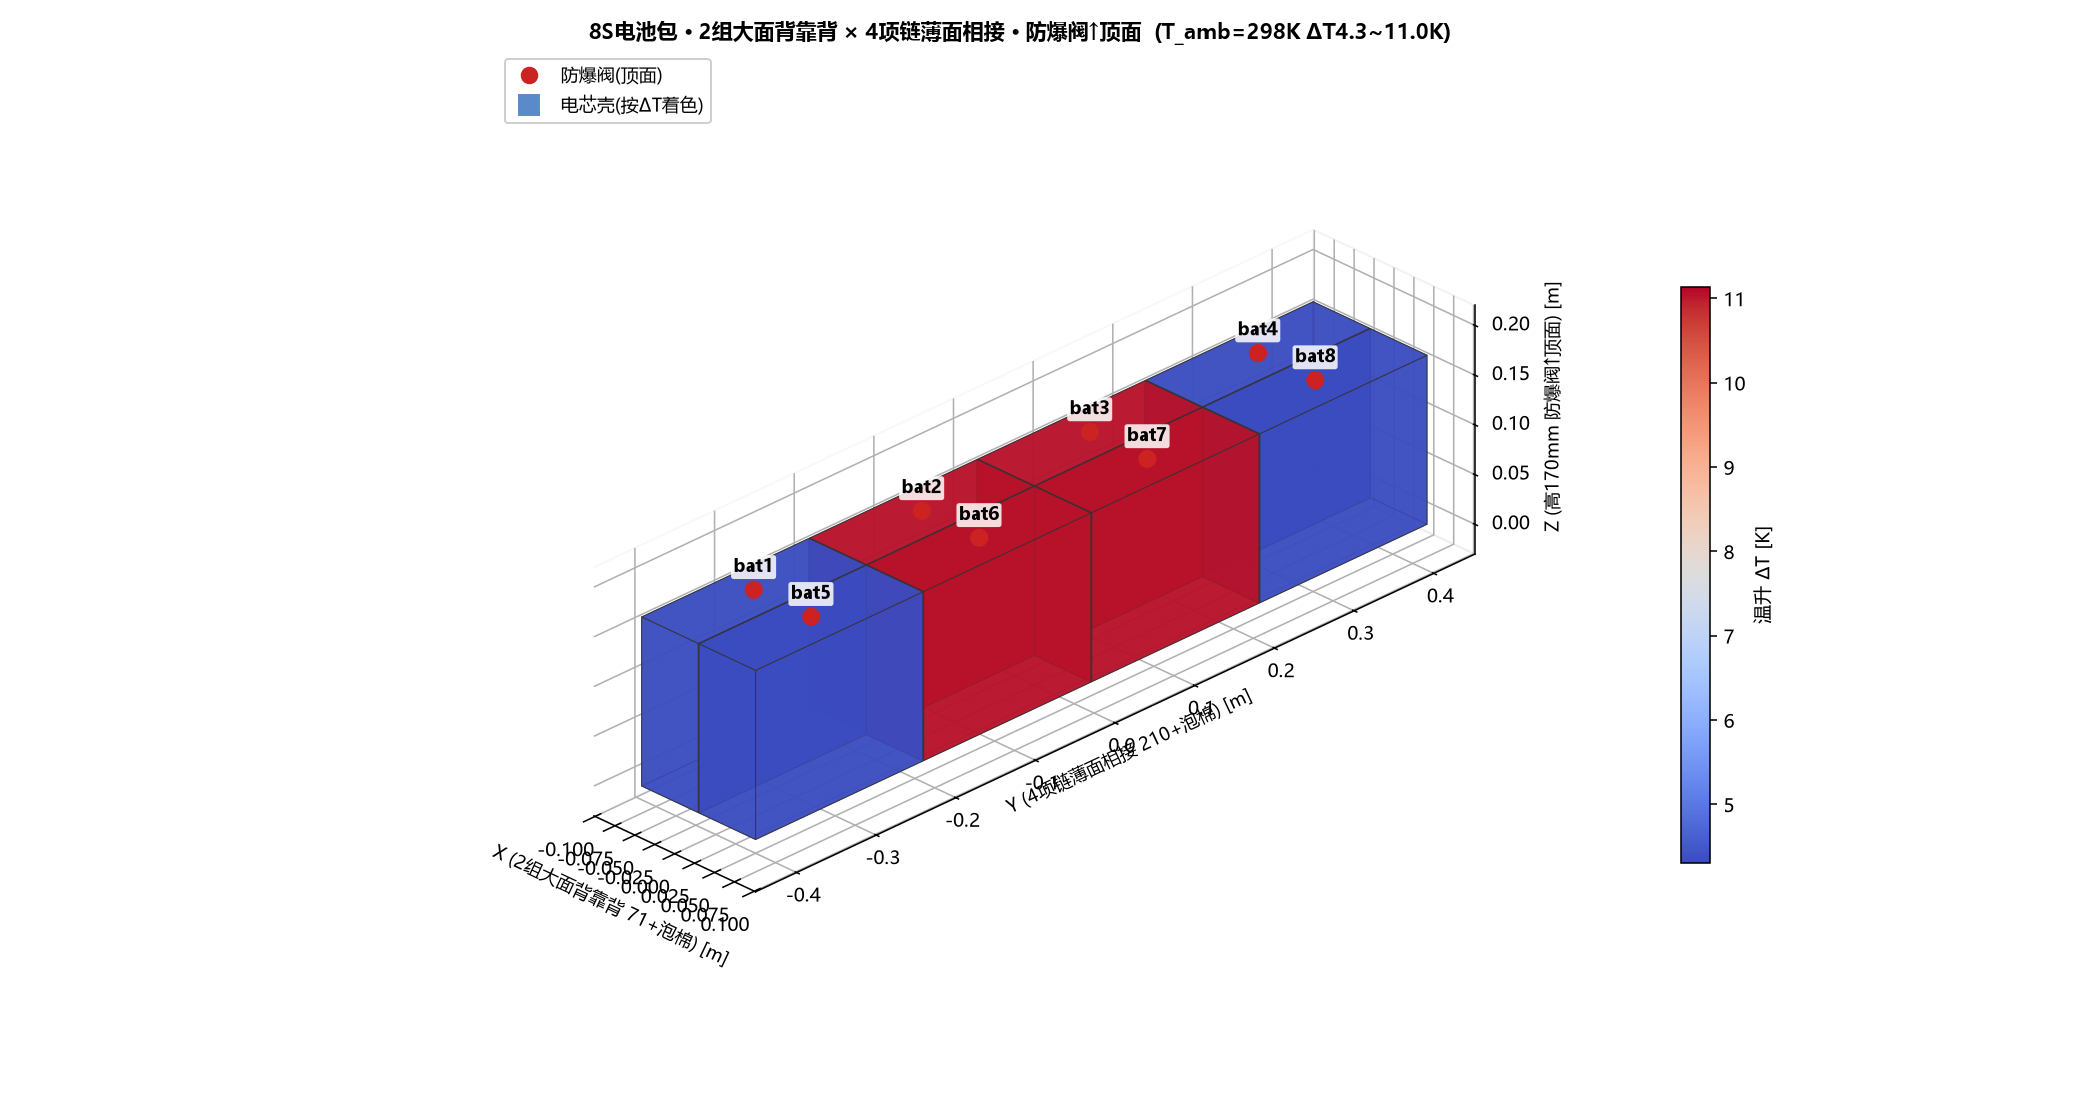
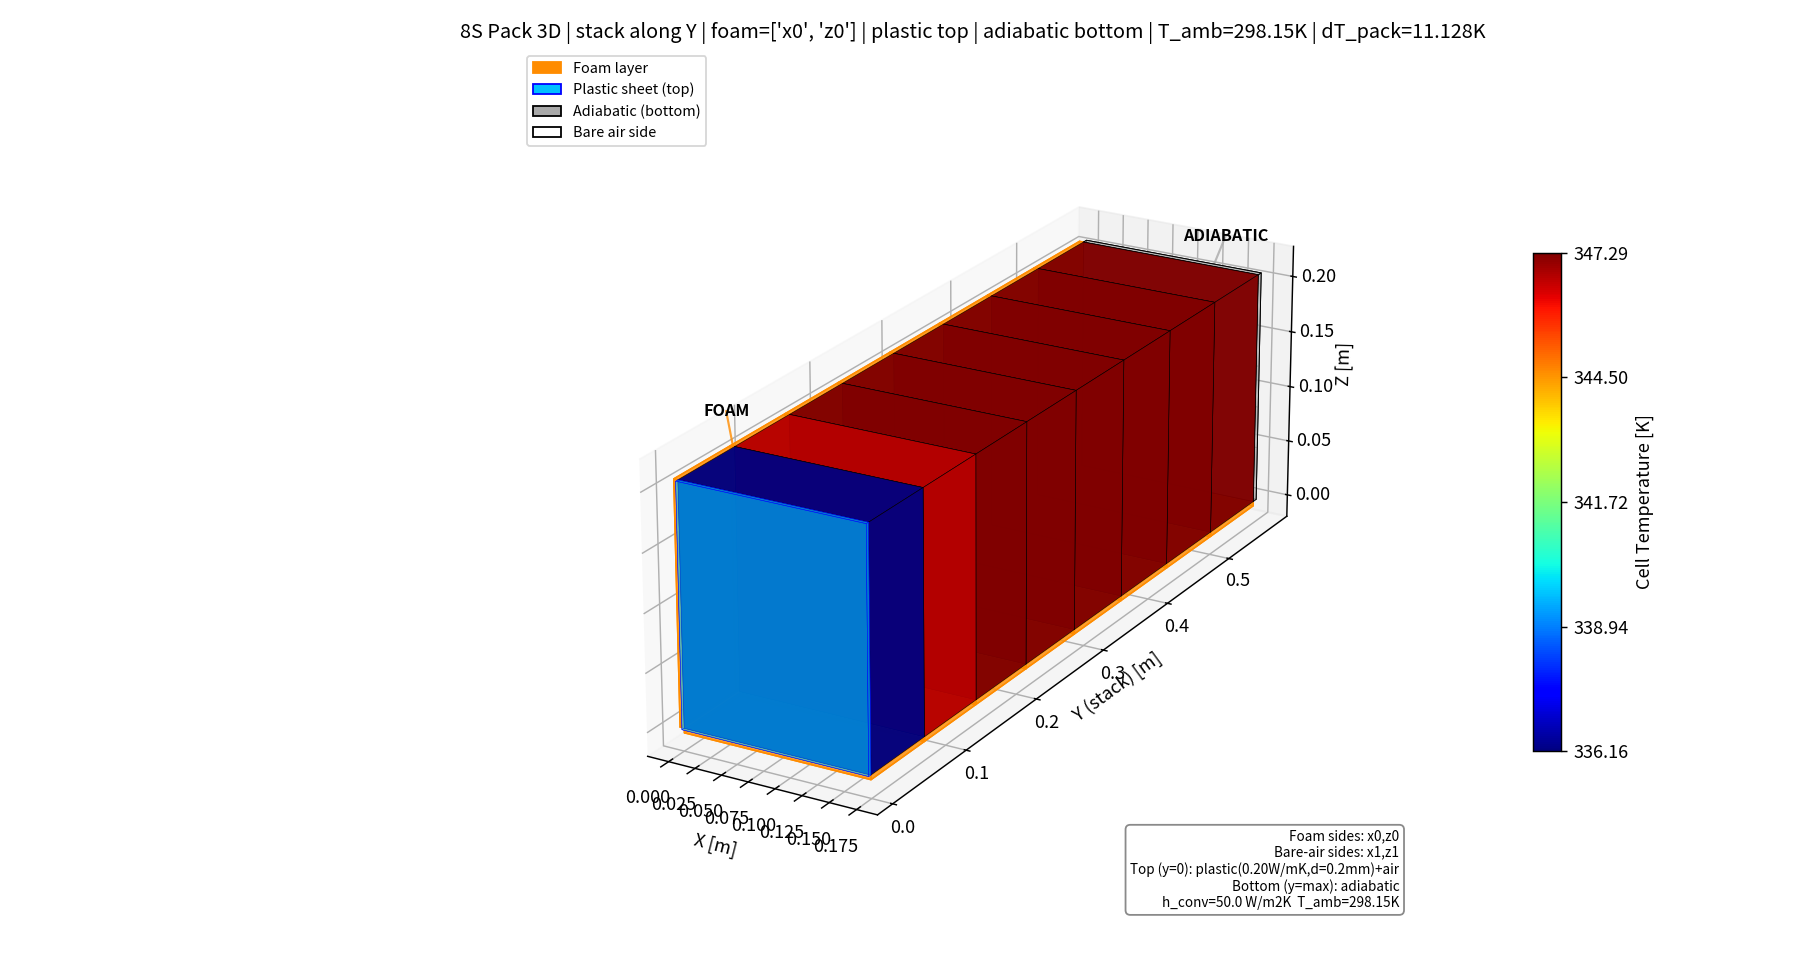
feat: add true 3D pack rendering plot_3d_pack to StackThermal3D
- 8 solid cell blocks along Y, coloured by bulk temperature

- exaggerated foam/plastic/adiabatic layers for clear visualisation

- 2D BC summary box + 3D leader-line labels (FOAM/ADIABATIC)

- demo writes ecm_pack_8s_3dpack.png and aligns thermal.T with last recorded snapshot

- all labels ASCII-only to avoid encoding issues

diff --git a/ecm_pack/thermal3d_stack.py b/ecm_pack/thermal3d_stack.py
@@ -364,3 +364,280 @@ class StackThermal3D:
         if save_path:
             fig.savefig(save_path, dpi=dpi)
         return fig
+
+    def plot_3d_pack(self, ax=None, figsize=(14, 7.5), cmap="jet",
+                     foam_color="#ff8c00", plastic_color="#00bfff",
+                     adiabatic_color="#a9a9a9",
+                     alpha_foam=0.55, alpha_plastic=0.40,
+                     alpha_adiabatic=0.55,
+                     title=None, save_path=None, dpi=130):
+        """Draw a true 3D rendering of the whole 1xN stack.
+
+        Shows each cell as a solid block coloured by bulk temperature, foam pads
+        on the faces listed in ``foam_faces``, a plastic sheet on the top face
+        (y=0), and an adiabatic marker on the bottom face (y=n*Ly).
+        All labels are ASCII-only to avoid encoding issues.
+        """
+        from mpl_toolkits.mplot3d.art3d import Poly3DCollection, Line3DCollection
+        import matplotlib.pyplot as plt
+        import matplotlib.patches as mpatches
+
+        if ax is None:
+            fig = plt.figure(figsize=figsize)
+            ax = fig.add_subplot(111, projection="3d")
+        else:
+            fig = ax.figure
+
+        Lx, Ly, Lz = self.Lx, self.Ly, self.Lz
+        n = self.n_cells
+
+        # temperature -> colour mapping (use a copy to avoid surprise updates)
+        T = np.asarray(self.T, dtype=float).copy()
+        Tmin, Tmax = float(T.min()), float(T.max())
+        norm = plt.Normalize(Tmin, Tmax)
+        sm = plt.cm.ScalarMappable(norm=norm, cmap=cmap)
+        sm.set_array([])
+
+        foam_x0 = "x0" in self.foam_faces
+        foam_x1 = "x1" in self.foam_faces
+        foam_z0 = "z0" in self.foam_faces
+        foam_z1 = "z1" in self.foam_faces
+
+        # exaggerate thin layers so they are visible in the overview
+        vis_d_foam = max(self.foam_thickness, 0.004)
+        vis_d_plastic = max(self.d_top, 0.003) if self.k_top > 0 else 0.0
+        vis_d_adiab = 0.005
+
+        def add_face(verts, color, alpha=0.95, edgecolor="k", lw=0.3):
+            ax.add_collection3d(
+                Poly3DCollection([verts], facecolors=color,
+                                 edgecolors=edgecolor,
+                                 linewidths=lw, alpha=alpha))
+
+        # ---- cell blocks ----
+        for c in range(n):
+            y0 = c * Ly
+            y1 = y0 + Ly
+            x0, x1 = 0.0, Lx
+            z0, z1 = 0.0, Lz
+            color = sm.to_rgba(T[c])
+
+            v = [
+                [x0, y0, z0], [x1, y0, z0], [x1, y1, z0], [x0, y1, z0],
+                [x0, y0, z1], [x1, y0, z1], [x1, y1, z1], [x0, y1, z1],
+            ]
+            faces = [
+                [v[0], v[1], v[2], v[3]],  # z = z0
+                [v[4], v[5], v[6], v[7]],  # z = z1
+                [v[0], v[1], v[5], v[4]],  # y = y0  (top)
+                [v[2], v[3], v[7], v[6]],  # y = y1  (bottom)
+                [v[0], v[3], v[7], v[4]],  # x = x0
+                [v[1], v[2], v[6], v[5]],  # x = x1
+            ]
+            for f in faces:
+                add_face(f, color)
+            # cell label on top face (y=0), black text for readability
+            ax.text(Lx * 0.5, y0 + 0.002, Lz * 0.5,
+                    f"bat{c + 1}", color="black", fontsize=8,
+                    ha="center", va="center", fontweight="bold")
+
+        # ---- foam layers on requested thin sides ----
+        for c in range(n):
+            y0 = c * Ly
+            y1 = y0 + Ly
+
+            if foam_x0:
+                ff = [
+                    [-vis_d_foam, y0, 0.0], [0.0, y0, 0.0],
+                    [0.0, y1, 0.0], [-vis_d_foam, y1, 0.0],
+                    [-vis_d_foam, y0, Lz], [0.0, y0, Lz],
+                    [0.0, y1, Lz], [-vis_d_foam, y1, Lz],
+                ]
+                for face in (
+                    [ff[0], ff[3], ff[7], ff[4]],
+                    [ff[1], ff[2], ff[6], ff[5]],
+                    [ff[0], ff[1], ff[2], ff[3]],
+                    [ff[4], ff[5], ff[6], ff[7]],
+                    [ff[0], ff[1], ff[5], ff[4]],
+                    [ff[3], ff[2], ff[6], ff[7]],
+                ):
+                    add_face(face, foam_color, alpha_foam,
+                             "darkorange", 0.8)
+            if foam_x1:
+                ff = [
+                    [Lx, y0, 0.0], [Lx + vis_d_foam, y0, 0.0],
+                    [Lx + vis_d_foam, y1, 0.0], [Lx, y1, 0.0],
+                    [Lx, y0, Lz], [Lx + vis_d_foam, y0, Lz],
+                    [Lx + vis_d_foam, y1, Lz], [Lx, y1, Lz],
+                ]
+                for face in (
+                    [ff[0], ff[1], ff[5], ff[4]],
+                    [ff[2], ff[3], ff[7], ff[6]],
+                    [ff[0], ff[1], ff[2], ff[3]],
+                    [ff[4], ff[5], ff[6], ff[7]],
+                    [ff[1], ff[2], ff[6], ff[5]],
+                    [ff[0], ff[3], ff[7], ff[4]],
+                ):
+                    add_face(face, foam_color, alpha_foam,
+                             "darkorange", 0.8)
+            if foam_z0:
+                ff = [
+                    [0.0, y0, -vis_d_foam], [Lx, y0, -vis_d_foam],
+                    [Lx, y1, -vis_d_foam], [0.0, y1, -vis_d_foam],
+                    [0.0, y0, 0.0], [Lx, y0, 0.0],
+                    [Lx, y1, 0.0], [0.0, y1, 0.0],
+                ]
+                for face in (
+                    [ff[0], ff[1], ff[2], ff[3]],
+                    [ff[4], ff[5], ff[6], ff[7]],
+                    [ff[0], ff[1], ff[5], ff[4]],
+                    [ff[2], ff[3], ff[7], ff[6]],
+                    [ff[1], ff[2], ff[6], ff[5]],
+                    [ff[0], ff[3], ff[7], ff[4]],
+                ):
+                    add_face(face, foam_color, alpha_foam,
+                             "darkorange", 0.8)
+            if foam_z1:
+                ff = [
+                    [0.0, y0, Lz], [Lx, y0, Lz],
+                    [Lx, y1, Lz], [0.0, y1, Lz],
+                    [0.0, y0, Lz + vis_d_foam], [Lx, y0, Lz + vis_d_foam],
+                    [Lx, y1, Lz + vis_d_foam], [0.0, y1, Lz + vis_d_foam],
+                ]
+                for face in (
+                    [ff[4], ff[5], ff[6], ff[7]],
+                    [ff[0], ff[1], ff[2], ff[3]],
+                    [ff[1], ff[2], ff[6], ff[5]],
+                    [ff[0], ff[3], ff[7], ff[4]],
+                    [ff[0], ff[1], ff[5], ff[4]],
+                    [ff[3], ff[2], ff[6], ff[7]],
+                ):
+                    add_face(face, foam_color, alpha_foam,
+                             "darkorange", 0.8)
+
+        # ---- top plastic sheet (y = 0, covers all cells) ----
+        if self.k_top > 0.0 and self.d_top > 0.0:
+            pp = [
+                [0.0, -vis_d_plastic, 0.0], [Lx, -vis_d_plastic, 0.0],
+                [Lx, 0.0, 0.0], [0.0, 0.0, 0.0],
+                [0.0, -vis_d_plastic, Lz], [Lx, -vis_d_plastic, Lz],
+                [Lx, 0.0, Lz], [0.0, 0.0, Lz],
+            ]
+            for face in (
+                [pp[0], pp[1], pp[2], pp[3]],
+                [pp[4], pp[5], pp[6], pp[7]],
+                [pp[0], pp[1], pp[5], pp[4]],
+                [pp[2], pp[3], pp[7], pp[6]],
+                [pp[0], pp[3], pp[7], pp[4]],
+                [pp[1], pp[2], pp[6], pp[5]],
+            ):
+                add_face(face, plastic_color, alpha_plastic, "blue", 0.25)
+
+        # ---- adiabatic bottom marker (y = n*Ly, visible slab) ----
+        y_bot = n * Ly
+        bot = [
+            [0.0, y_bot, 0.0], [Lx, y_bot, 0.0],
+            [Lx, y_bot + vis_d_adiab, 0.0], [0.0, y_bot + vis_d_adiab, 0.0],
+            [0.0, y_bot, Lz], [Lx, y_bot, Lz],
+            [Lx, y_bot + vis_d_adiab, Lz], [0.0, y_bot + vis_d_adiab, Lz],
+        ]
+        for face in (
+            [bot[0], bot[1], bot[5], bot[4]],
+            [bot[2], bot[3], bot[7], bot[6]],
+            [bot[0], bot[3], bot[7], bot[4]],
+            [bot[1], bot[2], bot[6], bot[5]],
+            [bot[4], bot[5], bot[6], bot[7]],
+        ):
+            add_face(face, adiabatic_color, alpha_adiabatic, "black", 0.5)
+        # diagonal hatching lines on adiabatic bottom face
+        hatch_lines = []
+        for t in np.linspace(0.05, 0.95, 6):
+            hatch_lines.append([[t * Lx, y_bot + vis_d_adiab, 0.0],
+                                [t * Lx, y_bot + vis_d_adiab, Lz]])
+            hatch_lines.append([[0.0, y_bot + vis_d_adiab, t * Lz],
+                                [Lx, y_bot + vis_d_adiab, t * Lz]])
+        ax.add_collection3d(
+            Line3DCollection(hatch_lines, colors="black", linewidths=0.6,
+                             linestyles="--", alpha=0.6))
+
+        # ---- 3D leader-line labels (placed in the foreground for the view) ----
+        label_kw = dict(color="black", fontsize=9, fontweight="bold",
+                        ha="center", va="center")
+
+        def label_with_line(text, pos, anchor, color="black"):
+            ax.text(*pos, text, **label_kw)
+            ax.plot([anchor[0], pos[0]], [anchor[1], pos[1]],
+                    [anchor[2], pos[2]], color=color, lw=1.2, alpha=0.8)
+
+        # Keep only the labels that sit in the foreground for the chosen view;
+        # the 2D text box already lists every boundary condition explicitly.
+        if foam_x0:
+            label_with_line(
+                "FOAM", [-0.028, 0.10, 0.22],
+                [-vis_d_foam, 0.10, Lz * 0.5], foam_color)
+        if self.k_top > 0.0 and self.d_top > 0.0:
+            label_with_line(
+                "PLASTIC", [Lx + 0.025, -0.030, 0.20],
+                [Lx * 0.5, -vis_d_plastic, Lz * 0.5], plastic_color)
+        label_with_line(
+            "ADIABATIC", [0.12, y_bot + 0.038, 0.22],
+            [Lx * 0.5, y_bot + vis_d_adiab, Lz * 0.5], adiabatic_color)
+
+        # ---- axes, limits, view ----
+        pad = max(vis_d_foam, vis_d_plastic, 0.015)
+        ax.set_xlim(-pad - 0.005, Lx + pad + 0.005)
+        ax.set_ylim(-pad - 0.005, y_bot + vis_d_adiab + pad + 0.005)
+        ax.set_zlim(-pad - 0.005, Lz + pad + 0.005)
+        ax.set_xlabel("X [m]")
+        ax.set_ylabel("Y (stack) [m]")
+        ax.set_zlabel("Z [m]")
+        ax.set_box_aspect([Lx, y_bot, Lz])
+        ax.view_init(elev=22, azim=-60)
+
+        # ---- colour bar ----
+        cbar = fig.colorbar(sm, ax=ax, shrink=0.55, aspect=18, pad=0.06)
+        cbar.set_label("Cell Temperature [K]")
+        cbar.set_ticks(np.linspace(Tmin, Tmax, 5))
+
+        # ---- legend ----
+        handles = [
+            mpatches.Patch(facecolor=foam_color, edgecolor="darkorange",
+                           label="Foam layer"),
+            mpatches.Patch(facecolor=plastic_color, edgecolor="blue",
+                           label="Plastic sheet (top)"),
+            mpatches.Patch(facecolor=adiabatic_color, edgecolor="black",
+                           label="Adiabatic (bottom)"),
+            mpatches.Patch(facecolor="white", edgecolor="k",
+                           label="Bare air side"),
+        ]
+        ax.legend(handles=handles, loc="upper left", fontsize=8)
+
+        # ---- 2D boundary-condition summary (always readable) ----
+        foam_str = ",".join(sorted(self.foam_faces)) if self.foam_faces else "none"
+        air_faces = sorted({"x0", "x1", "z0", "z1"} - set(self.foam_faces))
+        air_str = ",".join(air_faces) if air_faces else "none"
+        bc_text = (
+            f"Foam sides: {foam_str}\n"
+            f"Bare-air sides: {air_str}\n"
+            f"Top (y=0): plastic({self.k_top:.2f}W/mK,d={self.d_top*1e3:.1f}mm)+air\n"
+            f"Bottom (y=max): adiabatic\n"
+            f"h_conv={self.h_side:.1f} W/m2K  T_amb={self.T_amb:.2f}K"
+        )
+        ax.text2D(0.97, 0.05, bc_text, transform=ax.transAxes,
+                  fontsize=7.5, verticalalignment="bottom",
+                  horizontalalignment="right",
+                  bbox=dict(boxstyle="round,pad=0.35", facecolor="white",
+                            edgecolor="gray", alpha=0.92))
+
+        if title is None:
+            title = (
+                f"8S Pack 3D | stack along Y | foam={sorted(self.foam_faces)} | "
+                f"plastic top | adiabatic bottom | T_amb={self.T_amb:.2f}K | "
+                f"dT_pack={Tmax - Tmin:.3f}K"
+            )
+        ax.set_title(title, fontsize=11)
+
+        fig.tight_layout()
+        if save_path:
+            fig.savefig(save_path, dpi=dpi)
+        return fig, ax

diff --git a/ecm_pack/examples/demo_8s_foam_thermal.py b/ecm_pack/examples/demo_8s_foam_thermal.py
@@ -118,6 +118,9 @@ def main():
 
     # ---- 报告 ----
     T_end = T_cells[-1, :]
+    # align the 3D thermal object's bulk temperatures with the reported final
+    # snapshot (Pack may have continued past the last record before terminating)
+    thermal.T = T_end.copy()
     print("\n" + "=" * 65)
     print(f" 8S 大面背靠背 1×8 贴合(无泡棉) / 薄侧不对称(+X,+Z泡棉/-X,-Z直接空气)")
     print(f" 25°C强制对流(h=50) 顶部塑料片 底部绝热 1C=314A / 2h")
@@ -226,6 +229,12 @@ def main():
     fig5.savefig(png5, dpi=130)
     plt.close(fig5)
     print(f"  三维切片: {png5}")
+
+    # ---- 图6: 真 3D 包体渲染（8 个体块 + 泡棉/空气 + 顶塑料 + 底绝热）----
+    png6 = os.path.join(out_dir, "ecm_pack_8s_3dpack.png")
+    fig6, _ = thermal.plot_3d_pack(save_path=png6, dpi=130)
+    plt.close(fig6)
+    print(f"  三维包体: {png6}")
 
     # ---- CSV ----
     csv_path = os.path.join(out_dir, "ecm_pack_8s_foam_data.csv")
